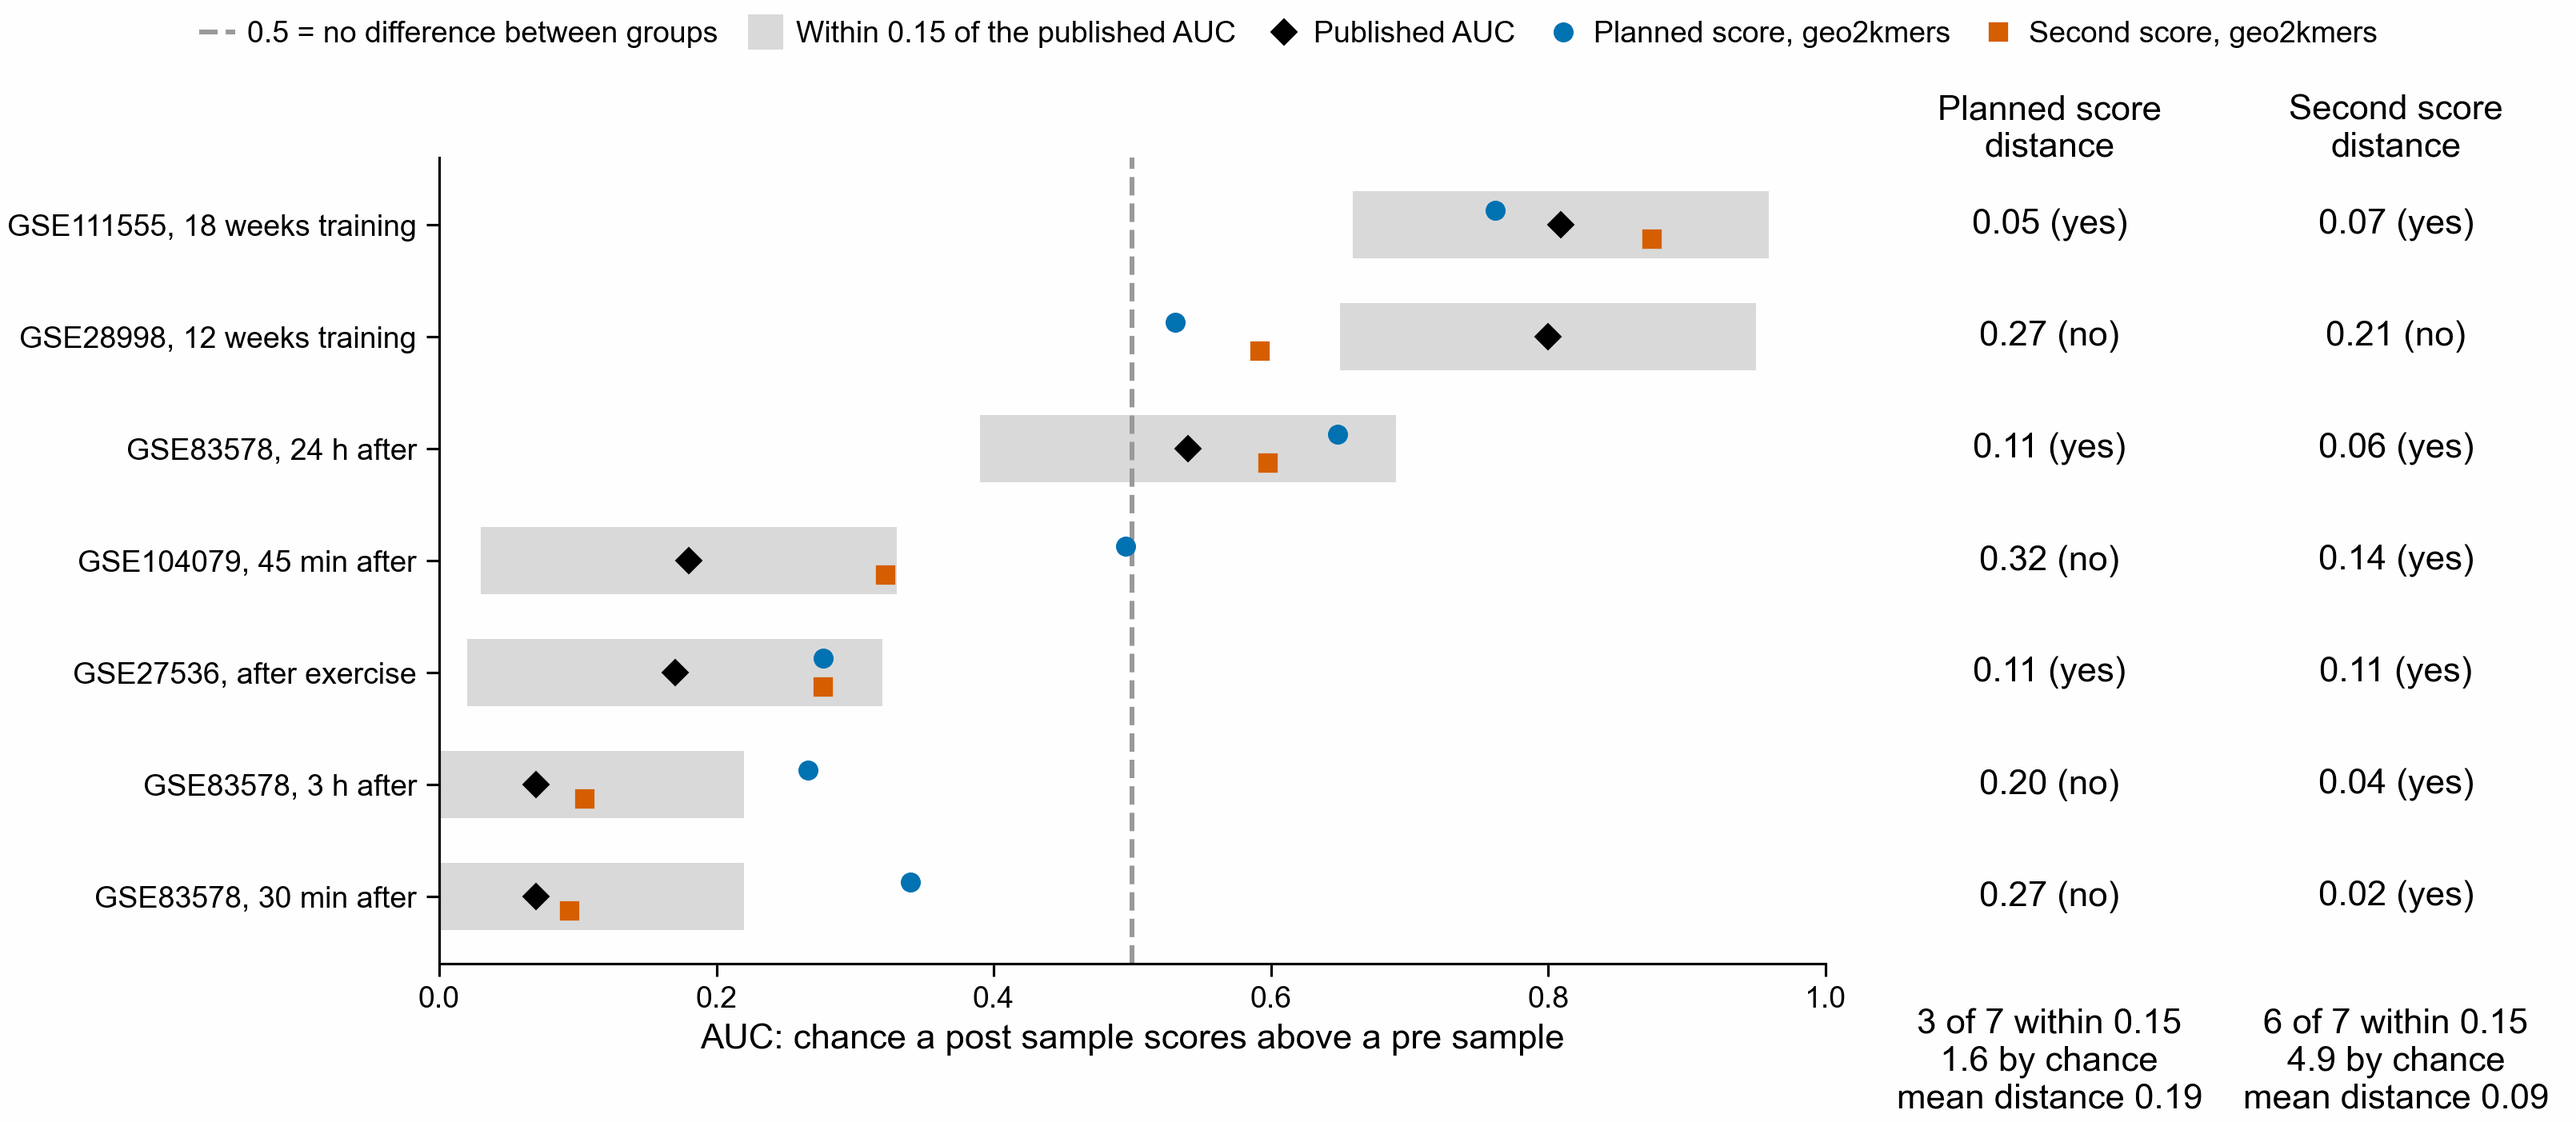
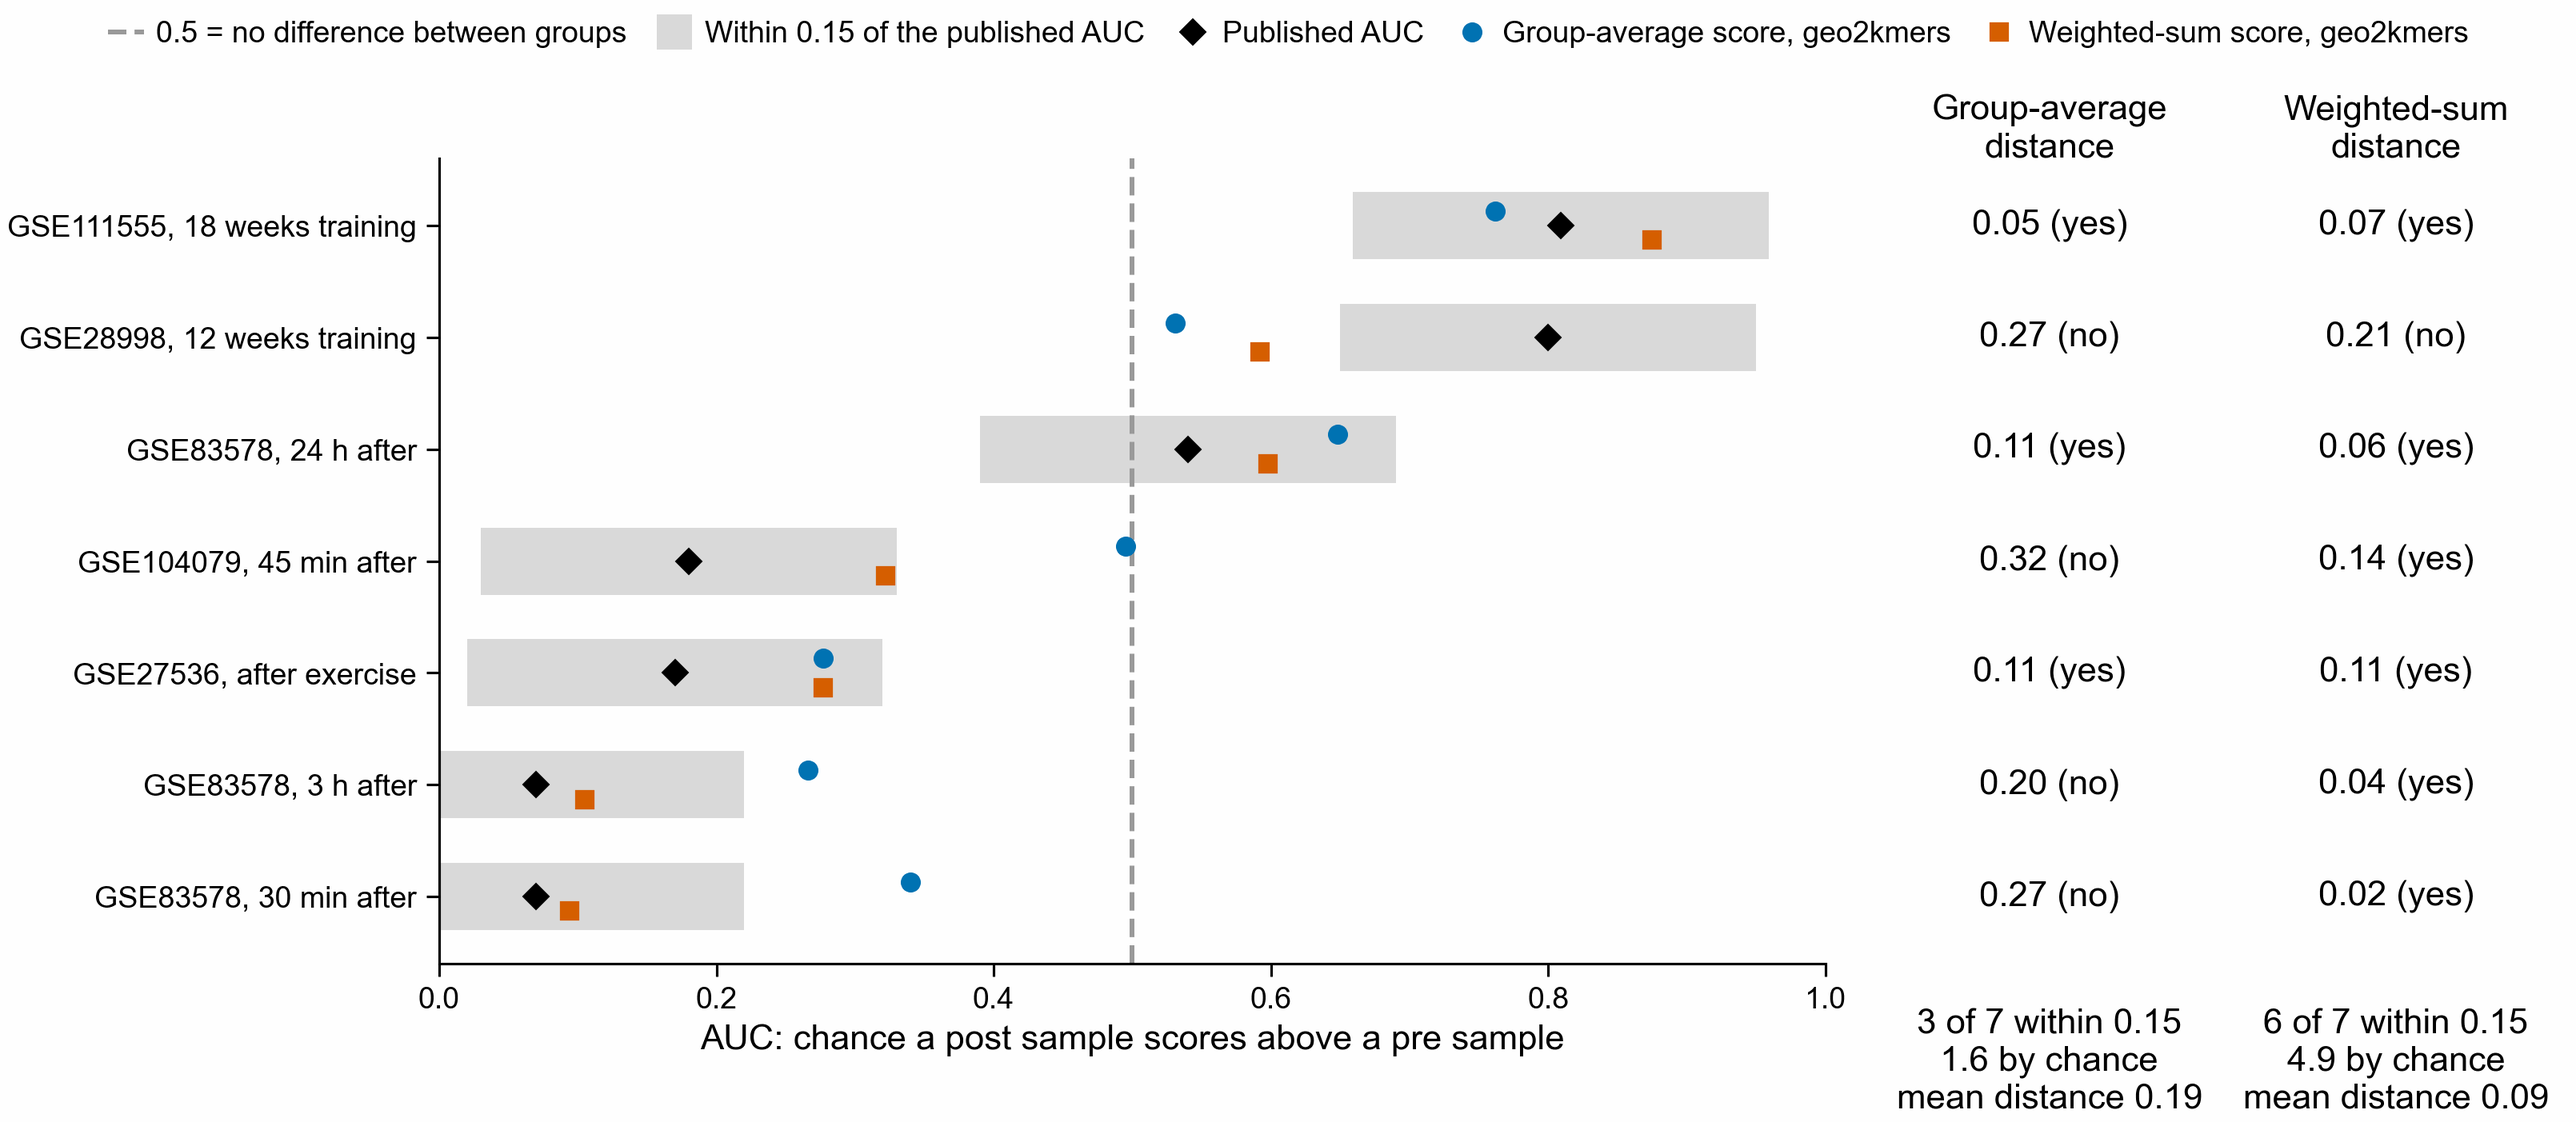
geo2kmers: name the two scores by how they are computed
The figure now says group-average and weighted-sum in place of planned and second, and the README links the names.

diff --git a/geo2kmers/fig4/plot_accuracy.py b/geo2kmers/fig4/plot_accuracy.py
@@ -2,7 +2,9 @@
 
 Usage: plot_accuracy.py <results/fig4 folder> <path to the repository's notebooks folder>
 One row per comparison, from most down to most up after exercise. The grey band is the rule's range of
-0.15 around the published AUC, and the columns give each score's distance from it. GSE111555's published
+0.15 around the published AUC, and the columns give each score's distance from it. The group-average score
+(README: planned score) is the mean of the M2 genes minus the mean of the M1 genes. The weighted-sum score
+(README: second score) sums each gene, with weight -1 for M1, 1 for cluster 14 and 2 for cluster 3. GSE111555's published
 AUC is PR 212's 0.809 on the corrected groups, not a printed number. Writes accuracy.tsv, .png and .svg to
 corrected_labels.
 """
@@ -18,8 +20,8 @@ import pubfig as pf  # noqa: E402
 
 RULE_DISTANCE = 0.15
 SCORES = [
-    ("Planned score", "reproduced_auc", "planned", "o", pf.OKABE_ITO["blue"]),
-    ("Second score", "auc_ghosh_weights", "ghosh_weights", "s", pf.OKABE_ITO["vermillion"]),
+    ("Group-average score", "reproduced_auc", "planned", "o", pf.OKABE_ITO["blue"]),
+    ("Weighted-sum score", "auc_ghosh_weights", "ghosh_weights", "s", pf.OKABE_ITO["vermillion"]),
 ]
 NAMES = {
     ("GSE83578", "Pre vs Post 30M"): "GSE83578, 30 min after",
@@ -73,7 +75,7 @@ for label, _, score, marker, colour in SCORES:
     line = y + (0.13 if score == "planned" else -0.13)
     ax.plot([r[f"{score}_auc"] for r in table], line, marker, color=colour, label=f"{label}, geo2kmers", zorder=4)
     x = 0.25 if score == "planned" else 0.75
-    numbers.text(x, len(table) - 0.45, label + "\ndistance", ha="center", va="bottom")
+    numbers.text(x, len(table) - 0.45, label.replace(" score", "") + "\ndistance", ha="center", va="bottom")
     for row_y, row in zip(y, table, strict=True):
         distance = row[f"{score}_distance"]
         mark = "yes" if distance <= RULE_DISTANCE else "no"

diff --git a/geo2kmers/README.md b/geo2kmers/README.md
@@ -332,7 +332,7 @@ those genes through protein k-mers alone. `fig4/README.md` describes the method 
 
 Bold means on the same side of 0.5 as the published AUC and within 0.15 of it, the rule fixed before running
 (`auc.tsv`). GSE111555 has two rows for one comparison, explained below, so the counts are out of 7 either way. The planned score is the M2 proteins' mean minus the M1 proteins' mean, where M1 and M2 are the
-paper's two groups of genes. The second score was added after the plan: it puts the weights of Ghosh et al.
+paper's two groups of genes: each group counts equally, however many genes it has. `accuracy.png` calls this the group-average score. The second score, called the weighted-sum score there, was added after the plan: it puts the weights of Ghosh et al.
 2023 on sums, which PR 212 found the published code does. For GSE27536 both scores use M1 alone and are the
 same number.
 
